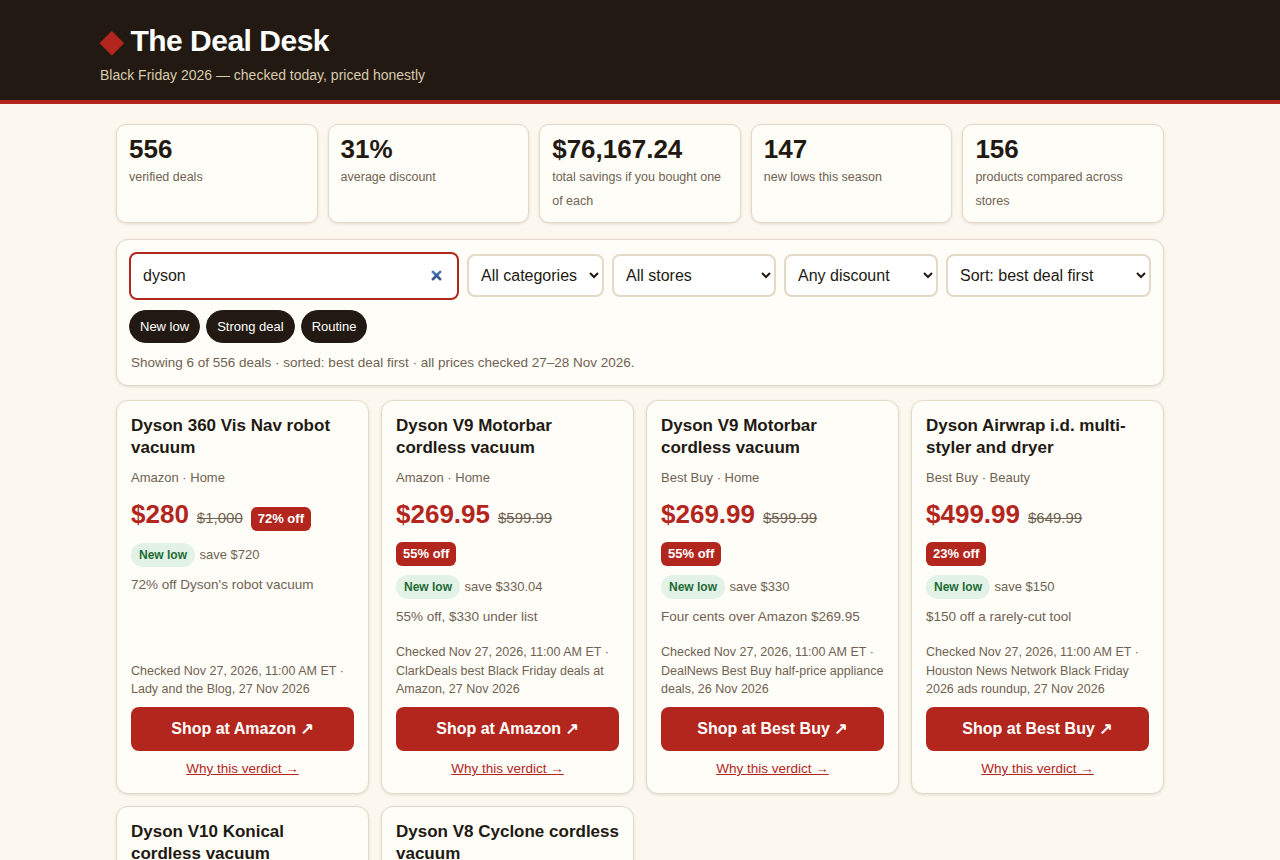
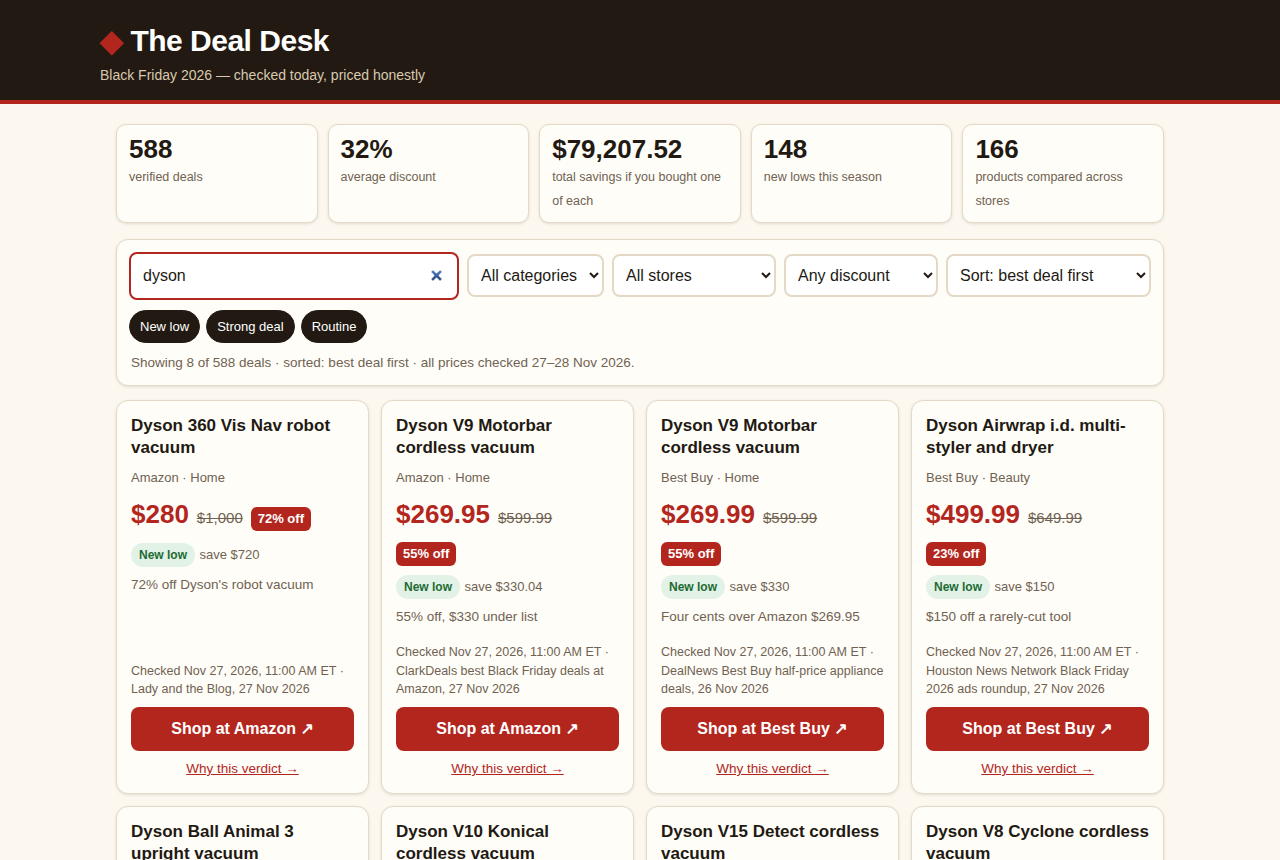
v23: 588 deals (+32), cross-store 166, savings $79,207.52, first load 13893 B

diff --git a/app/data2.js b/app/data2.js
@@ -1,4 +1,4 @@
-// The rest of the deals (v6–v22; v22 checked 28 Nov 2026 ~19:50 UTC).
+// The rest of the deals (v6–v23; v23 checked 28 Nov 2026 ~19:59 UTC).
 // Loaded by data.js with import() after the first paint. Times/sources
 // are local consts here: never import data.js, or the modules deadlock
 // on the top-level await.
@@ -31,6 +31,18 @@ const M0=DT+"19:20:00Z";
 const N0=DT+"19:31:00Z";
 const O0=DT+"19:39:00Z";
 const P0=DT+"19:50:00Z";
+const Q0=DT+"19:59:00Z";
+const SD = "Slickdeals Black Friday frontpage, 28 Nov 2026";
+const NW = "NintendoWire Switch 2 Black Friday deals, 28 Nov 2026";
+const NL = "Nintendo Life Switch 2 Black Friday deals, 28 Nov 2026";
+const CM2 = "9to5Toys Amazon Cyber Monday weekend sale, 28 Nov 2026";
+const C9 = "ComicBook best Black Friday video game deals, 28 Nov 2026";
+const NH = "Nintendo News Hub Switch 2 deals, 28 Nov 2026";
+const MO = "MacObserver eero Black Friday deals, 24 Nov 2026";
+const DY = "Dyson Black Friday deals (GearReveal, Gizmodo, DealSpy), 28 Nov 2026";
+const KP = "Koupon Dyson Black Friday deals, 28 Nov 2026";
+const DN = "DealNews Ring deals at Amazon, 28 Nov 2026";
+const FC = "FullCleared best Black Friday gaming deals, 28 Nov 2026";
 const W2 = "9to5Toys Best of Weekly Cyber Monday, 28 Nov 2026";
 const RG = "VR.org and Road to VR Meta Black Friday sale, 28 Nov 2026";
 const PG = "PC Guide Cyber Monday deals, 28 Nov 2026";
@@ -161,7 +173,7 @@ export const deals2 = [
   ["jbl-tour-one-m3-amazon","JBL Tour One M3",AM,CA,149.95,449.95,0,H8,VG,VN,R4],
   ["nex-playground-amazon","Nex Playground",AM,CY,209,299,0,H8,VG,VN,R5],
   ["alienware-aw2726dm-bestbuy","Alienware AW2726DM QD-OLED monitor",BB,CT,279.99,349.99,2,H8,VG,VN,"Lowest price yet, 27-inch",[["Dell",279.99,"https://www.dell.com/en-us/search/Alienware%20AW2726DM"]]],
-  ["cmf-buds-2a-amazon","CMF Buds 2A",AM,CA,17.89,29,0,H8,VG,VN,"38% off buds with ANC"],
+  ["cmf-buds-2a-amazon","CMF Buds 2A",AM,CA,17.89,29,0,H8,VG,VN,"38% off buds with ANC",[[WM,18,0,Q0,SD]]],
   ["tapo-smart-plug-amazon","TP-Link Tapo Matter smart plug mini",AM,CS,7.99,19.99,"d2,5",H8,VG,VN,"60% off the Matter smart plug"],
   ["eufy-omni-c28-amazon","Eufy Omni C28 robot vacuum and mop",AM,CH,379.99,799.99,4,J5,VG,VN,"New low, $420 off the bot"],
   ["dreame-x60-ultra-amazon","Dreame X60 Ultra robot vacuum and mop",AM,CH,999.99,1499.99,4,H8,VG,VS,"$500 off the flagship robovac",[[BB,1000,4,H4,VG]]],
@@ -564,9 +576,9 @@ export const deals2 = [
   ["sharge-pixel-67w-amazon","Sharge Pixel 67W travel charger",AM,CT,23,50,0,P0,W2,VN,"All-time low, $27 off, 67W"],
   ["sharge-pixel-100w-amazon","Sharge Pixel 100W travel charger",AM,CT,44.9,75,0,P0,W2,VN,"All-time low, $30 off, 100W"],
   ["sharge-pixel-140w-amazon","Sharge Pixel 140W travel charger",AM,CT,65.9,95,0,P0,W2,VN,"All-time low, $29 off, 140W"],
-  ["eero-7-1pack-amazon","Amazon eero 7 dual-band Wi-Fi 7 router, 1-pack",AM,CT,139.99,169.99,0,P0,W2,VS,"$30 off the eero 7, 1-pack"],
-  ["eero-max-7-1pack-amazon","Amazon eero Max 7 Wi-Fi 7 router, 1-pack",AM,CT,420,600,0,P0,W2,VS,"$180 off the eero Max 7"],
-  ["eero-pro-7-amazon","Amazon eero Pro 7 Wi-Fi 7 router",AM,CT,225,300,0,P0,W2,VS,"$75 off the eero Pro 7"],
+  ["eero-7-1pack-amazon","Amazon eero 7 dual-band Wi-Fi 7 router, 1-pack",AM,CT,139.99,169.99,0,P0,W2,VS,"$30 off the eero 7, 1-pack",[[BB,139.99,0,Q0,BP]]],
+  ["eero-max-7-1pack-amazon","Amazon eero Max 7 Wi-Fi 7 router, 1-pack",AM,CT,420,600,0,P0,W2,VS,"$180 off the eero Max 7",[[BB,419.99,0,Q0,BP]]],
+  ["eero-pro-7-amazon","Amazon eero Pro 7 Wi-Fi 7 router",AM,CT,225,300,0,P0,W2,VS,"$75 off the eero Pro 7",[[BB,224.99,0,Q0,BP]]],
   ["eero-outdoor-7-1pack-amazon","Amazon eero Outdoor 7 Wi-Fi 7 router, 1-pack",AM,CT,310,400,0,P0,W2,VS,"$90 off the eero Outdoor 7"],
   ["acer-4k-usb-c-hdmi-cable-amazon","Acer 4K USB-C to HDMI braided cable",AM,CT,10,14,0,P0,W2,VR,"$4 off the 4K USB-C cable"],
   ["lisen-140w-magnetic-3-macbook-cable-amazon","LISEN 140W Magnetic 3 MacBook charging cable",AM,CT,18,22,0,P0,W2,VR,"$4 off the 140W MagSafe cable"],
@@ -597,7 +609,7 @@ export const deals2 = [
   ["mammotion-luba-mini-2-amazon","Mammotion LUBA Mini 2 AWD 1500H robot mower with cleaning stand",AM,CS,1599,1999,0,P0,W2,VN,"All-time low, $400 off LUBA",[[BB,1599,0,P0,BP]]],
   ["mammotion-luba-2-awd-3000x-amazon","Mammotion LUBA 2 AWD 3000X robot mower with blade set",AM,CS,1928,2399,0,P0,W2,VS,"$471 off the LUBA 3000X"],
   ["mammotion-luba-2-awd-3000hx-amazon","Mammotion LUBA 2 AWD 3000HX robot mower",AM,CS,1998,2378,0,P0,W2,VS,"$380 off the LUBA 3000HX"],
-  ["ring-indoor-cam-2k-bestbuy","Ring Indoor Cam 2K",BB,CS,25,60,0,P0,W2,VS,"$35 off the Indoor Cam 2K"],
+  ["ring-indoor-cam-2k-bestbuy","Ring Indoor Cam 2K",BB,CS,25,60,0,P0,W2,VS,"$35 off the Indoor Cam 2K",[[AM,24.99,0,Q0,DN]]],
   ["ring-doorbell-plus-bestbuy","Ring Battery Doorbell Plus",BB,CS,90,180,0,P0,W2,VS,"$90 off the Doorbell Plus"],
   ["beatbot-sora-70-amazon","Beatbot Sora 70 5-in-1 robot pool cleaner",AM,CH,999,1499,0,P0,W2,VS,"$500 off the Sora 70 pool bot"],
   ["ego-21-select-cut-mower-amazon","EGO 21-inch Select Cut cordless mower",AM,CH,580,779,0,P0,W2,VS,"$199 off the Select Cut mower"],
@@ -606,4 +618,36 @@ export const deals2 = [
   ["ego-z6-zero-turn-amazon","EGO Z6 42-inch zero-turn riding mower",AM,CH,4499,5300,0,P0,W2,VS,"$801 off the zero-turn Z6"],
   ["hisense-c3-projector-amazon","Hisense C3 Triple Color RGB Smart Laser Projector",AM,CV,1499.99,1999.99,0,P0,W2,VN,"All-time low, $500 off the C3"],
   ["waterpik-aquarius-amazon","Waterpik Aquarius water flosser",AM,CB,50,99.99,0,P0,W2,VS,"Half price, $50 off Waterpik"],
+  ["star-wars-outlaws-gold-amazon","Star Wars Outlaws: Gold Edition (Nintendo Switch 2)",AM,CG,24.99,60,0,Q0,NW,VS,"58% off the Gold Edition",[[BB,24.99,0,Q0,SD]]],
+  ["sonic-x-shadow-generations-amazon","Sonic X Shadow Generations (Nintendo Switch 2)",AM,CG,19.99,49.99,0,Q0,NW,VS,"60% off Sonic, $19.99 now",[[BB,19.99,0,Q0,FC]]],
+  ["virtua-fighter-5-revo-amazon","Virtua Fighter 5 R.E.V.O. World Stage: 30th Anniversary Edition (Nintendo Switch 2)",AM,CG,19.99,49.99,0,Q0,NL,VS,"60% off the 30th Anniversary"],
+  ["yakuza-kiwami-3-amazon","Yakuza Kiwami 3 & Dark Ties (Nintendo Switch 2)",AM,CG,25,60,0,Q0,Q9,VS,"$35 off Yakuza Kiwami 3"],
+  ["elden-ring-tarnished-amazon","Elden Ring: Tarnished Edition (Nintendo Switch 2)",AM,CG,59.99,79.99,0,Q0,NH,VS,"$20 off the Tarnished Edition"],
+  ["pragmata-amazon","Pragmata (Nintendo Switch 2)",AM,CG,39.99,59.99,0,Q0,NL,VN,"All-time low, $20 off Pragmata",[[BB,39.99,0,Q0,SD]]],
+  ["monster-hunter-stories-3-amazon","Monster Hunter Stories 3: Twisted Reflection (Nintendo Switch 2)",AM,CG,39.99,69.99,0,Q0,C9,VS,"$30 off Monster Hunter Stories"],
+  ["lego-horizon-adventures-bestbuy","LEGO Horizon Adventures (Nintendo Switch)",BB,CG,10,40,0,Q0,SD,VS,"75% off the Horizon LEGO game"],
+  ["switch2-mariokart-bundle-amazon","Nintendo Switch 2 + Mario Kart World bundle",AM,CG,499.99,549.99,0,Q0,CM2,VR,"$50 off the Mario Kart bundle"],
+  ["technics-eah-az100-bh","Technics EAH-AZ100 reference-class true wireless earbuds","B&H",CA,199.99,300,"https://www.bhphotovideo.com/c/search?Ntt=Technics+EAH-AZ100",Q0,SD,VS,"$100 off the Technics AZ100"],
+  ["anker-prime-67w-3port-amazon","Anker Prime 67W 3-port GaN compact wall charger",AM,CT,35,50,0,Q0,SD,VS,"$15 off Anker's 67W 3-port"],
+  ["moto-g-stylus-5g-2025-amazon","Motorola Moto G Stylus 5G smartphone (2025, 256GB, unlocked)",AM,CT,200,400,0,Q0,SD,VS,"Half price, $200 off Stylus"],
+  ["samsung-odyssey-g75f-amazon","Samsung Odyssey G75F 37-inch 4K 165Hz curved VA gaming monitor",AM,CT,493,900,0,Q0,SD,VS,"$407 off the 37-inch Odyssey"],
+  ["watch-series-11-46mm-walmart","Apple Watch Series 11 GPS + Cellular 46mm, Natural Titanium, Milanese Loop",WM,CT,399.5,799,0,Q0,SD,VS,"Half price, $400 off Series 11"],
+  ["cotton-carrier-g3-amazon","Cotton Carrier CCS G3 camera harness system, one camera",AM,CT,96.75,129,0,Q0,SD,VS,"$32 off the CCS G3 harness"],
+  ["eero-7-2pack-amazon","Amazon eero 7 dual-band Wi-Fi 7 router, 2-pack",AM,CT,229.99,284.99,0,Q0,MO,VS,"$55 off the eero 7 2-pack",[[BB,229.99,0,Q0,BP]]],
+  ["eero-7-3pack-amazon","Amazon eero 7 dual-band Wi-Fi 7 router, 3-pack",AM,CT,319.99,399.99,0,Q0,MO,VS,"$80 off the eero 7 3-pack",[[BB,319.99,0,Q0,BP]]],
+  ["eero-pro-7-3pack-amazon","Amazon eero Pro 7 tri-band Wi-Fi 7 router, 3-pack",AM,CT,599.99,799.99,0,Q0,MO,VS,"$200 off the Pro 7 3-pack"],
+  ["eero-6plus-1pack-bestbuy","Amazon eero 6+ dual-band Wi-Fi 6 router, 1-pack",BB,CT,94.99,139.99,0,Q0,BP,VS,"$45 off the eero 6+ 1-pack"],
+  ["eufy-s4-eufycam-amazon","eufy S4 eufyCam 4K solar wireless security camera",AM,CS,260,350,0,Q0,SD,VS,"$90 off the solar eufyCam S4"],
+  ["eufy-familock-s3-max-walmart","eufy Security Smart Lock FamiLock S3 Max",WM,CS,231,400,0,Q0,SD,VS,"$169 off the FamiLock S3 Max"],
+  ["dyson-v15-detect-amazon","Dyson V15 Detect cordless vacuum",AM,CH,598.5,849.99,0,Q0,DY,VS,"$251 off the V15 Detect"],
+  ["dyson-ball-animal-3-amazon","Dyson Ball Animal 3 upright vacuum",AM,CH,299.99,449.99,0,Q0,KP,VS,"$150 off the Ball Animal 3"],
+  ["klein-modbox-workbench-amazon","Klein Tools MODbox folding work bench",AM,CH,100,129,0,Q0,SD,VS,"$29 off the MODbox bench"],
+  ["leatherman-charge-tti-amazon","Leatherman Charge+ TTI multi-tool, titanium handles",AM,CH,100,200,0,Q0,SD,VS,"Half price, $100 off TTI"],
+  ["toto-washlet-ks6-amazon","TOTO WASHLET KS6 electronic heated bidet, elongated",AM,CH,399,550,0,Q0,SD,VS,"$151 off the WASHLET KS6"],
+  ["scotts-turf-builder-amazon","Scotts Turf Builder lawn food, 37.5 lbs",AM,CH,36,65,0,Q0,SD,VS,"$29 off the Turf Builder"],
+  ["workpro-wet-dry-vac-walmart","WORKPRO wet dry vacuum, 2.5 gallon, 3 peak HP",WM,CH,36.99,80,0,Q0,SD,VS,"53% off the WORKPRO vac"],
+  ["ninja-possiblecooker-pro-bestbuy","Ninja PossibleCooker Pro multi-slow cooker, 8.5-Qt",BB,CK,100,200,0,Q0,SD,VS,"Half price, $100 off Ninja"],
+  ["all-clad-fry-pan-set-costco","All-Clad Ceramic Nonstick fry pan set, 3-piece","Costco",CK,109.99,140,"https://www.costco.com/CatalogSearch?dept=All&keyword=All-Clad+Ceramic+Nonstick+Fry+Pan+Set",Q0,SD,VS,"$30 off the All-Clad fry pans"],
+  ["tile-lock-scrabble-amazon","Winning Moves Tile Lock Scrabble board game",AM,CY,16,30,0,Q0,SD,VS,"46% off Tile Lock Scrabble"],
+  ["echo-studio-home-camera-amazon","Amazon Echo Studio with Home Camera",AM,CT,180,250,0,Q0,CM2,VS,"$70 off the Studio + camera"],
 ].map(X);

diff --git a/main.ts b/main.ts
@@ -1,10 +1,10 @@
 // The Deal Desk — a Black Friday 2026 deal finder (Node 22, standard
 // library only). The site is this directory's app/ folder: plain static
 // files a browser opens at app/index.html (ES modules, CSS, no build step),
-// its 556 deals held in its own app/data.js (the first 80, loaded with the
+// its 588 deals held in its own app/data.js (the first 80, loaded with the
 // first paint) and app/data2.js (the rest, loaded by import() just after
-// it), each checked 27–28 Nov 2026 at its store; v22: 56 new deals + 6 also, 2 price fixes
-// on 28 Nov ~19:50 UTC. Nothing the site runs,
+// it), each checked 27–28 Nov 2026 at its store; v23: 32 new deals + 10 also, 0 price fixes
+// on 28 Nov ~19:59 UTC. Nothing the site runs,
 // styles or shows loads over the network, and each deal links out to its
 // store. The program hands it in: it copies app/ and screenshots/ from
 // beside this file to /output and writes /output/dossier.json, the summary

diff --git a/app/data.js b/app/data.js
@@ -1,7 +1,7 @@
-// Deals checked 27–28 Nov 2026 (v22: 56 deals, 6 also, 2 fix 19:50
+// Deals checked 27-28 Nov 2026 (v23: 32 deals, 10 also, 0 fix 19:59
 // 28 Nov) Each deal: product, store, link, prices, check time,
 // source, verdict; `also` = same product at
-// another store; no `checked` = 27 Nov 16:00 UTC. First 80 load with
+//another store; no `checked` = 27 Nov 16:00 UTC. First 80 load with
 // the first paint; the rest live in data2.js (import() after).
 
 export const CHECKED = "2026-11-27T16:00:00Z";
